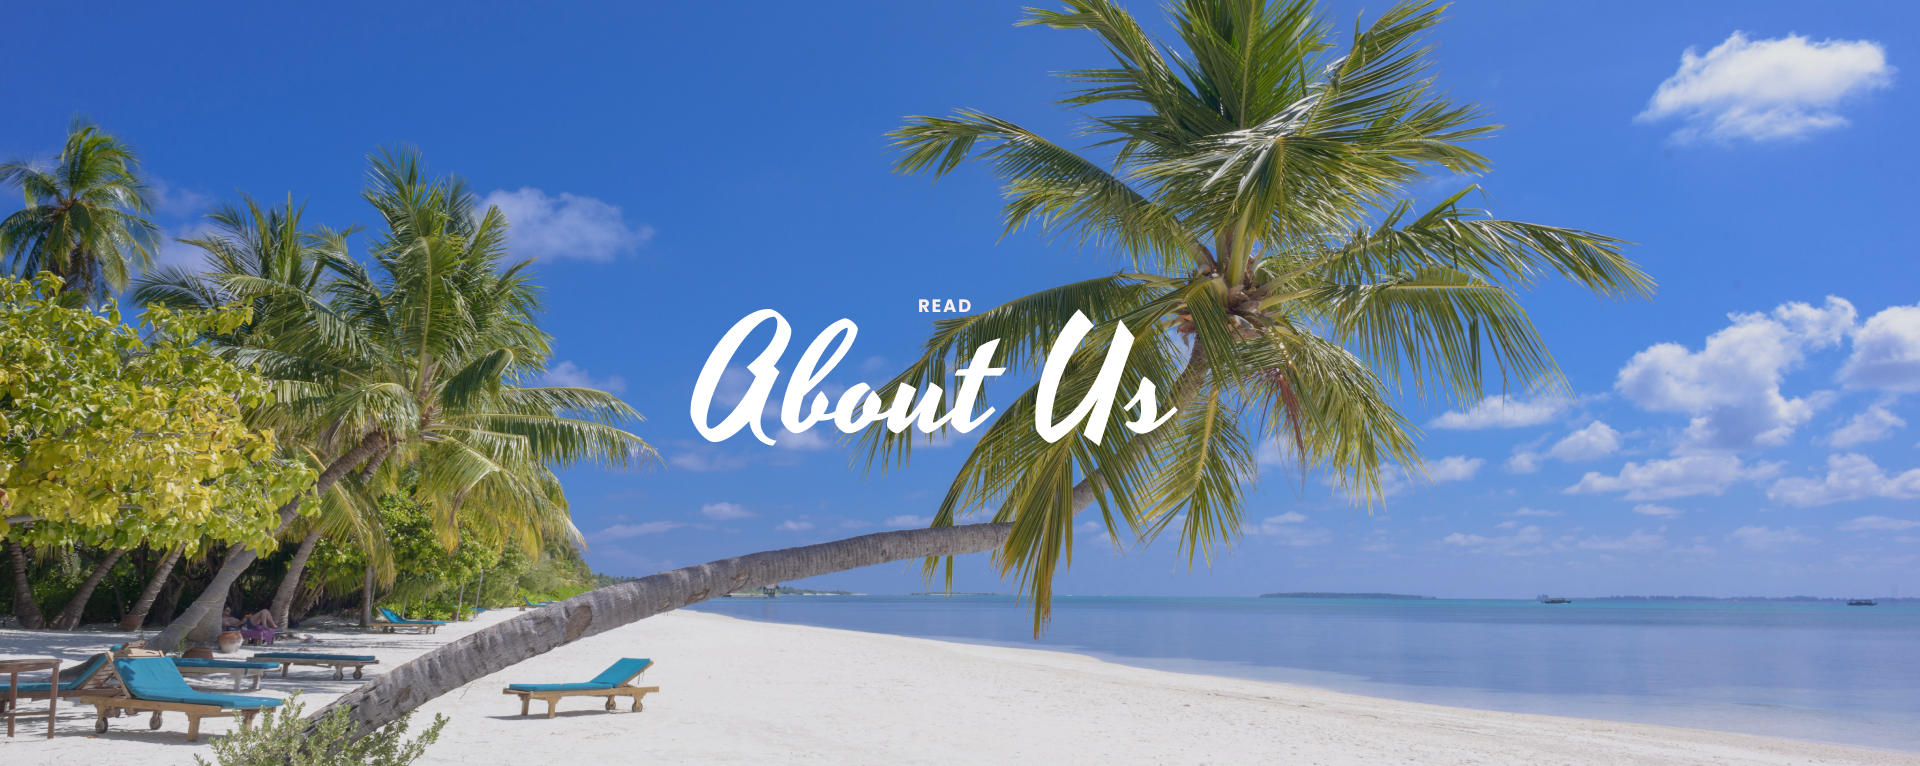
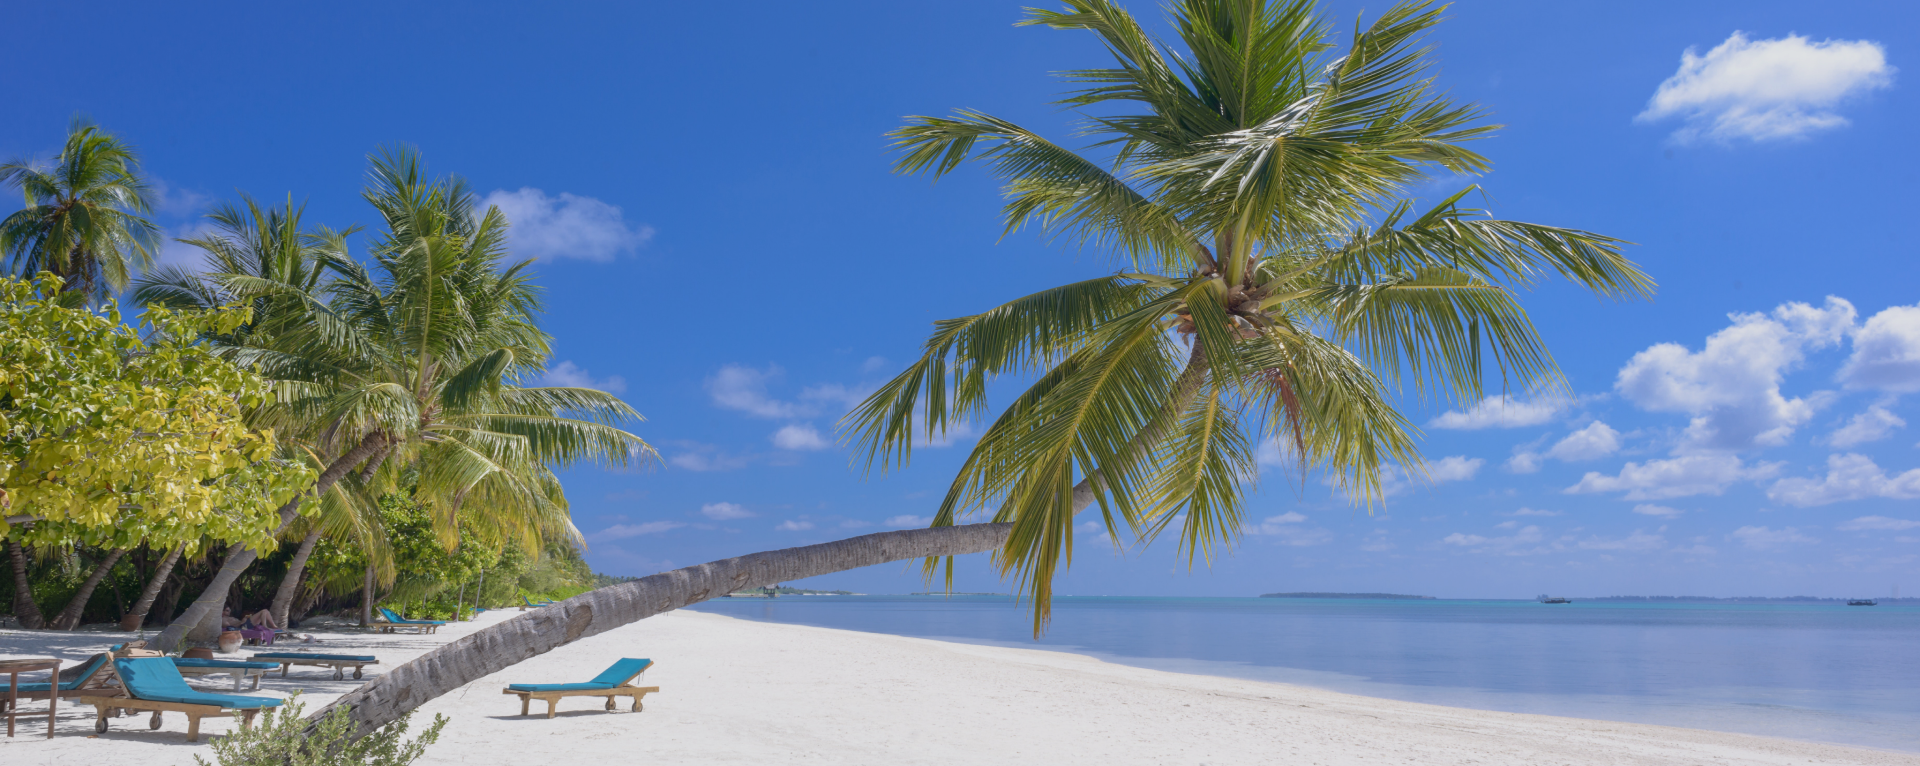
feat: implement promo section without charts

Changed region(s): [[0.3438, 0.3903, 0.625, 0.5705], [0.4688, 0.3903, 0.5, 0.4204]]

diff --git a/client/src/components/aboutSections/Trend/Trend.jsx b/client/src/components/aboutSections/Trend/Trend.jsx
@@ -1,0 +1,37 @@
+import TrendImage from '../../../assets/about-us-img-2.png'
+import Berll from '../../../assets/BerllImage.png'
+
+function Trend() {
+  return (
+    <div className="w-full py-10 px-6 min-h-[900px] sm:min-h-[500px] bg-white">
+      <div className="w-full mx-auto max-w-6xl grid grid-cols-1 sm:grid-cols-3 gap-8 relative">
+        
+        {/* First Column: Image */}
+        <div className="h-full relative">
+          <img src={TrendImage} alt="trend" className="w-full sm:w-full h-full object-contain" />
+        </div>
+
+        {/* Second Column: Text - Centered Vertically */}
+        <div className="ms-3 sm:ms-0 flex flex-col justify-center">
+          <div className="space-y-4 max-w-[547px]">
+            <h6 className="text-orange font-bold text-lg sm:text-xl">Trend</h6>
+            <p className="text-dark_blue text-2xl sm:text-3xl font-bold">
+              Our Popular Tour Plans
+            </p>
+            <p className="text-sm sm:text-base">
+              Et labore harum non nobis ipsum eum molestias mollitia et corporis praesentium a laudantium. Et labore harum non nobis ipsum eum molestias mollitia et corporis praesentium a laudantium.
+            </p>
+          </div>
+        </div>
+
+        {/* Third Column: Decorative Image */}
+        <div className="flex justify-center sm:justify-end items-end sm:items-start lg:items-start">
+          <img src={Berll} alt="Decorative element" className="w-[170px] h-[100px] sm:h-[170px] object-contain" />
+        </div>
+        
+      </div>
+    </div>
+  )
+}
+
+export default Trend

diff --git a/client/src/components/aboutSections/AboutHero/AboutHero.jsx b/client/src/components/aboutSections/AboutHero/AboutHero.jsx
@@ -1,15 +1,19 @@
 import AboutHeroImage from '../../../assets/AboutHeroImage.png'
+
 function AboutHero() {
   return (
     <div className="relative w-screen h-screen">
-      <div className="absolute right-0 top-0 w-full h-full">
+      <div className="absolute inset-0 w-full h-full">
         <img
           src={AboutHeroImage}
           alt="About hero"
           className="object-cover w-full h-full"
         />
+        <div className="absolute inset-0 flex flex-col items-center justify-center text-center">
+          <h6 className='text-white text-2xl sm:text-2xl font-bold'>Read</h6>
+          <h1 className="text-white text-3xl sm:text-8xl font-bold">about us</h1>
+        </div>
       </div>
-      
     </div>
   )
 }

diff --git a/client/src/pages/About.jsx b/client/src/pages/About.jsx
@@ -1,5 +1,6 @@
 import AboutHero from '../components/aboutSections/AboutHero/AboutHero'
 import Promo from '../components/aboutSections/Promo/Promo';
+import Trend from '../components/aboutSections/Trend/Trend';
 import Footer from '../components/layout/Footer'
 import Navbar from '../components/layout/Navbar'
 import Testmonial from '../components/sections/Testmonial';
@@ -11,6 +12,7 @@ export default function About() {
       <div>
         <AboutHero />
         <Promo />
+        <Trend />
         <Testmonial />
       </div>
       <Footer />
